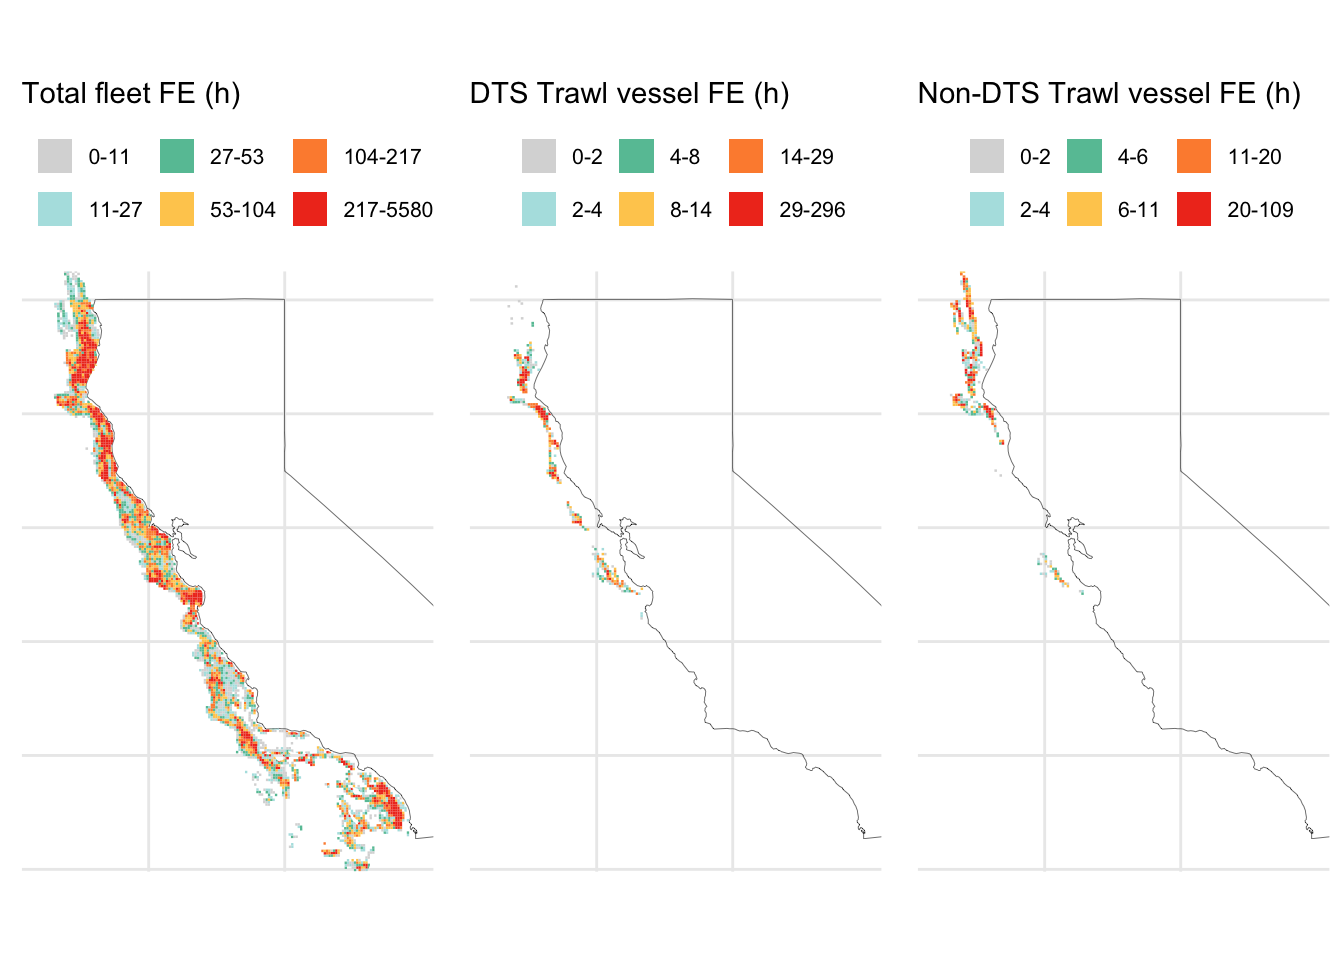
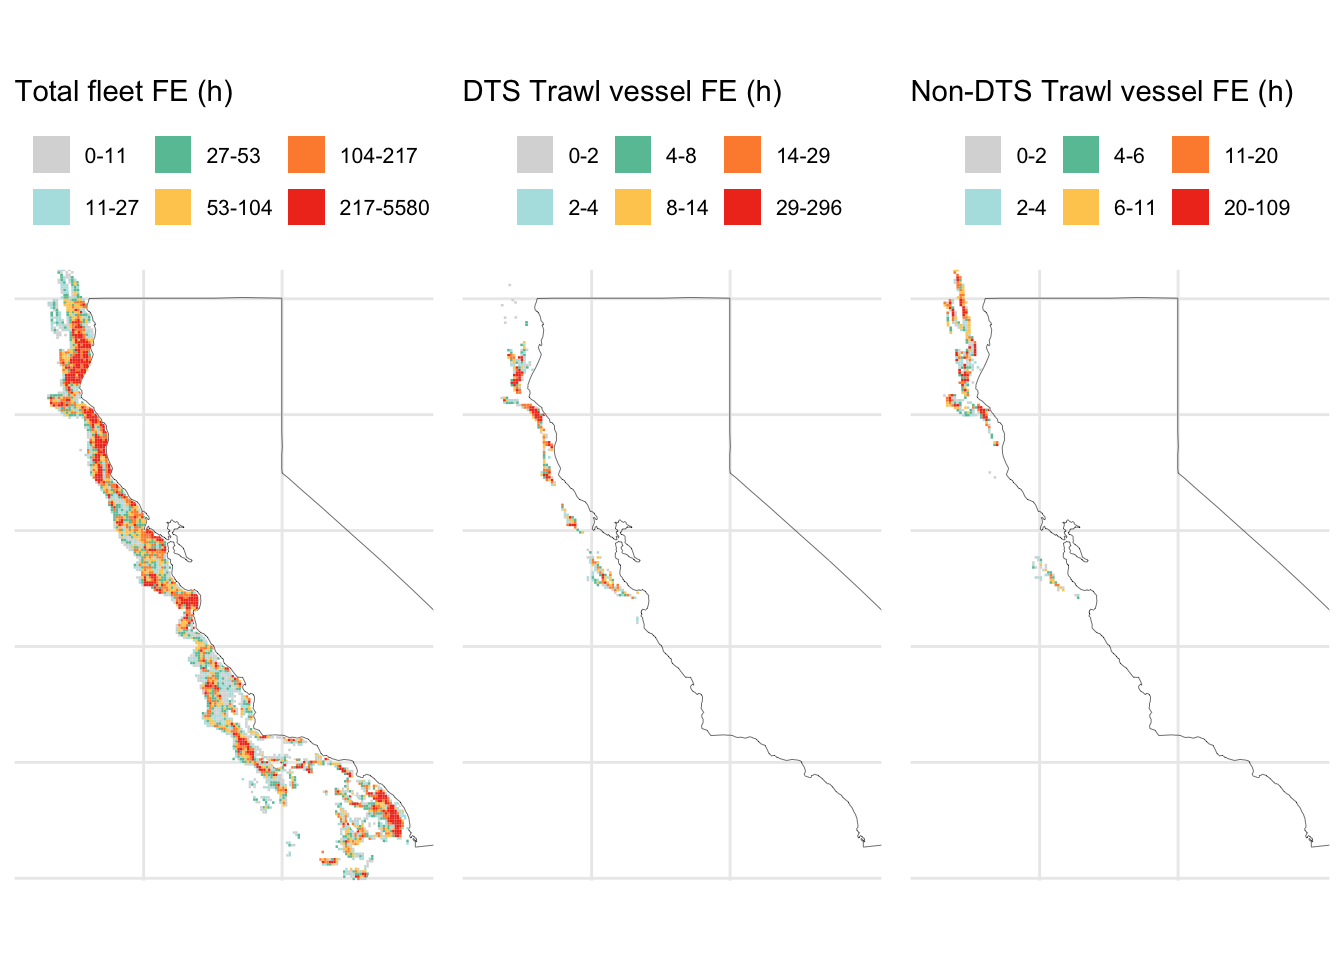
data renferences

diff --git a/docs/fisheries.html b/docs/fisheries.html
@@ -278,7 +278,7 @@ window.Quarto = {
 
 <p>This section describes the raw input datasets and parameters used to run the R routines related to fleet characteristics. These include information on individual fishing vessels, gears, métiers, vessel economics, and related aspects. The files should be stored and loaded from <code>raw_inputs/FISHERIES</code>. Most of the information can be derived from available VMS, landing receipts, vessel registry data, and stock assessments.</p>
 <blockquote class="blockquote">
-<p><strong>Note:</strong> The data included in this repository and presented here are example data based on model output only. It is derived from the actual case study but does not represent real data, as the actual data inputs are confidential.</p>
+<p><strong>Note:</strong> The data included in this repository and presented here are example data based on model output only. It is derived from the actual case study but does not represent real data, as the actual data inputs are confidential. The original data for this study consist of raw VMS records from the National Oceanic and Atmospheric Administration (NOAA) and landing receipts from the California Department of Fish and Wildlife (CDFW), covering the period 2010–2023.</p>
 </blockquote>
 <section id="fishing-effort-distribution" class="level2" data-number="3.1">
 <h2 data-number="3.1" class="anchored" data-anchor-id="fishing-effort-distribution"><span class="header-section-number">3.1</span> Fishing effort distribution</h2>
@@ -319,7 +319,7 @@ Figure&nbsp;3.1: Fishing effort distribution input examples. The left panel show
 <li><p><code>{population code}_kg_h</code>: Defines the catching capacity per fishing hour of a vessel or group of vessels for each population included in the analysis. Each population has its own variable. For example, our analysis includes <code>SAB_kg_h</code>, <code>SJU_kg_h</code>, <code>SJZ_kg_h</code>, <code>MIP_kg_h</code>, <code>EOJ_kg_h</code>, <code>SGO_kg_h</code>, and <code>OTH_kg_h</code>.</p>
 <p>This variable is used in the simulation to define the fishing rate and to determine how much time is required to fill each vessel’s storage capacity. For explicitly defined species, these rates adapt to the simulated abundances provided by the population model. Since implicit stocks are not dynamically modeled, their catch is only represented using fixed catch rates derived from historical data.</p></li>
 <li><p><code>VE_LEN</code> and <code>Tonnage</code>: These parameters correspond to vessel length (m) and vessel tonnage (any unit).Tonnage values are not used as DISPLACE inputs, but included as a references. However, as for our case study we use tonnage values to extrapolate other parameters such as engine power or fuel tank capacity. Neither the VMS nor fish ticket data contain much information on vessel characteristics. To obtain such information, in our study we have web scraped information from the <a href="https://cgmix.uscg.mil/psix/psixsearch.aspx">USCG Port State Information Exchange website</a> and the <a href="https://www.webapps.nwfsc.noaa.gov/apex/ifq/f?p=112:23">NOAA limited entry dataset</a>.</p></li>
-<li><p><code>mean_kW</code>: Mean engine power of the vessel. This variable influences the fuel consumption of simulated trips. In our case study, engine power values were only available for a few vessels. To estimate engine power for the rest, we used registry data from 2,043 vessels and predicted engine power from tonnage and length using a model we developed.</p></li>
+<li><p><code>mean_kW</code>: Mean engine power of the vessel. This variable influences the fuel consumption of simulated trips. In our case study, engine power values were only available for a few vessels. To estimate engine power for the rest, we used registry data from 2,043 vessels (<span class="citation" data-cites="ODFW2024">ODFW (<a href="references.html#ref-ODFW2024" role="doc-biblioref">2024</a>)</span>) and predicted engine power from tonnage and length using a model we developed.</p></li>
 <li><p><code>kW</code>: Represents the same information as <code>mean_kW</code>. If we lack engine power data and we recorded as <code>0</code> or <code>NA</code>, the script <code>06_GenerateVesselsConfigFiles.r</code> will assign a value based on the model <code>DanishkWvsLOAModel.Rdata</code> instead, used in other DISPLACE applications by Bastardie et al.</p></li>
 <li><p><code>fishing.speed.knots</code> and <code>cruise.speed.knots</code>: Average speed when the vessel is fishing and average speed when the vessel is steaming. We got these values from the VMS data by discriminating fishing pings from the rest. This values were adjusted for calibrating the model as discussed in the calibration section.</p></li>
 <li><p><code>fuel.tank.liter</code>: Fuel tank capacity of the vessel. This parameter is important because it influences trip duration. A half-empty fuel tank will trigger the vessel to return to port. Other reasons for returning to port include a full fish hold or reaching the end of the day if the vessel is set to perform daily trips (i.e., when trip duration is set to &lt;30h).</p>
@@ -541,6 +541,9 @@ Kitts, Andrew, John Walden, Dale Squires, Mike Travis, Erin Steiner, Lisa Pfeiff
 </div>
 <div id="ref-lian2012west" class="csl-entry" role="listitem">
 Lian, Carl E. 2012. <span>“West Coast Limited Entry Groundfish Cost Earnings Survey: Protocol and Results for 2008.”</span>
+</div>
+<div id="ref-ODFW2024" class="csl-entry" role="listitem">
+ODFW. 2024. <span>“Sample of Vessel Length and Horsepower for 2,043 Commercial Vessels.”</span> Oregon Department of Fish; Wildlife. <a href="https://Registered data">Registered data</a>.
 </div>
 <div id="ref-steiner2021evaluating" class="csl-entry" role="listitem">
 Steiner, Erin, Ashley Vizek, Marie Guldin, Melissa Krigbaum, and Lisa Pfeiffer. 2021. <span>“Evaluating the Economic Performance of the US West Coast Groundfish Trawl Catch Share Program.”</span>

diff --git a/docs/references.html b/docs/references.html
@@ -271,6 +271,10 @@ Redistribution Creates Unequal Outcomes for Multispecies Fisheries Under
 Projected Climate Change.”</span> <em>Science Advances</em> 9 (33):
 eadg5468. <a href="https://www.science.org/doi/full/10.1126/sciadv.adg5468">https://www.science.org/doi/full/10.1126/sciadv.adg5468</a>.
 </div>
+<div id="ref-ODFW2024" class="csl-entry" role="listitem">
+ODFW. 2024. <span>“Sample of Vessel Length and Horsepower for 2,043
+Commercial Vessels.”</span> Oregon Department of Fish; Wildlife. <a href="https://Registered data">Registered data</a>.
+</div>
 <div id="ref-steiner2021evaluating" class="csl-entry" role="listitem">
 Steiner, Erin, Ashley Vizek, Marie Guldin, Melissa Krigbaum, and Lisa
 Pfeiffer. 2021. <span>“Evaluating the Economic Performance of the US

diff --git a/docs/index.html b/docs/index.html
@@ -244,7 +244,7 @@ div.csl-indent {
     <div>
     <div class="quarto-title-meta-heading">Published</div>
     <div class="quarto-title-meta-contents">
-      <p class="date">Last Updated on September 03, 2025</p>
+      <p class="date">Last Updated on September 15, 2025</p>
     </div>
   </div>
   
